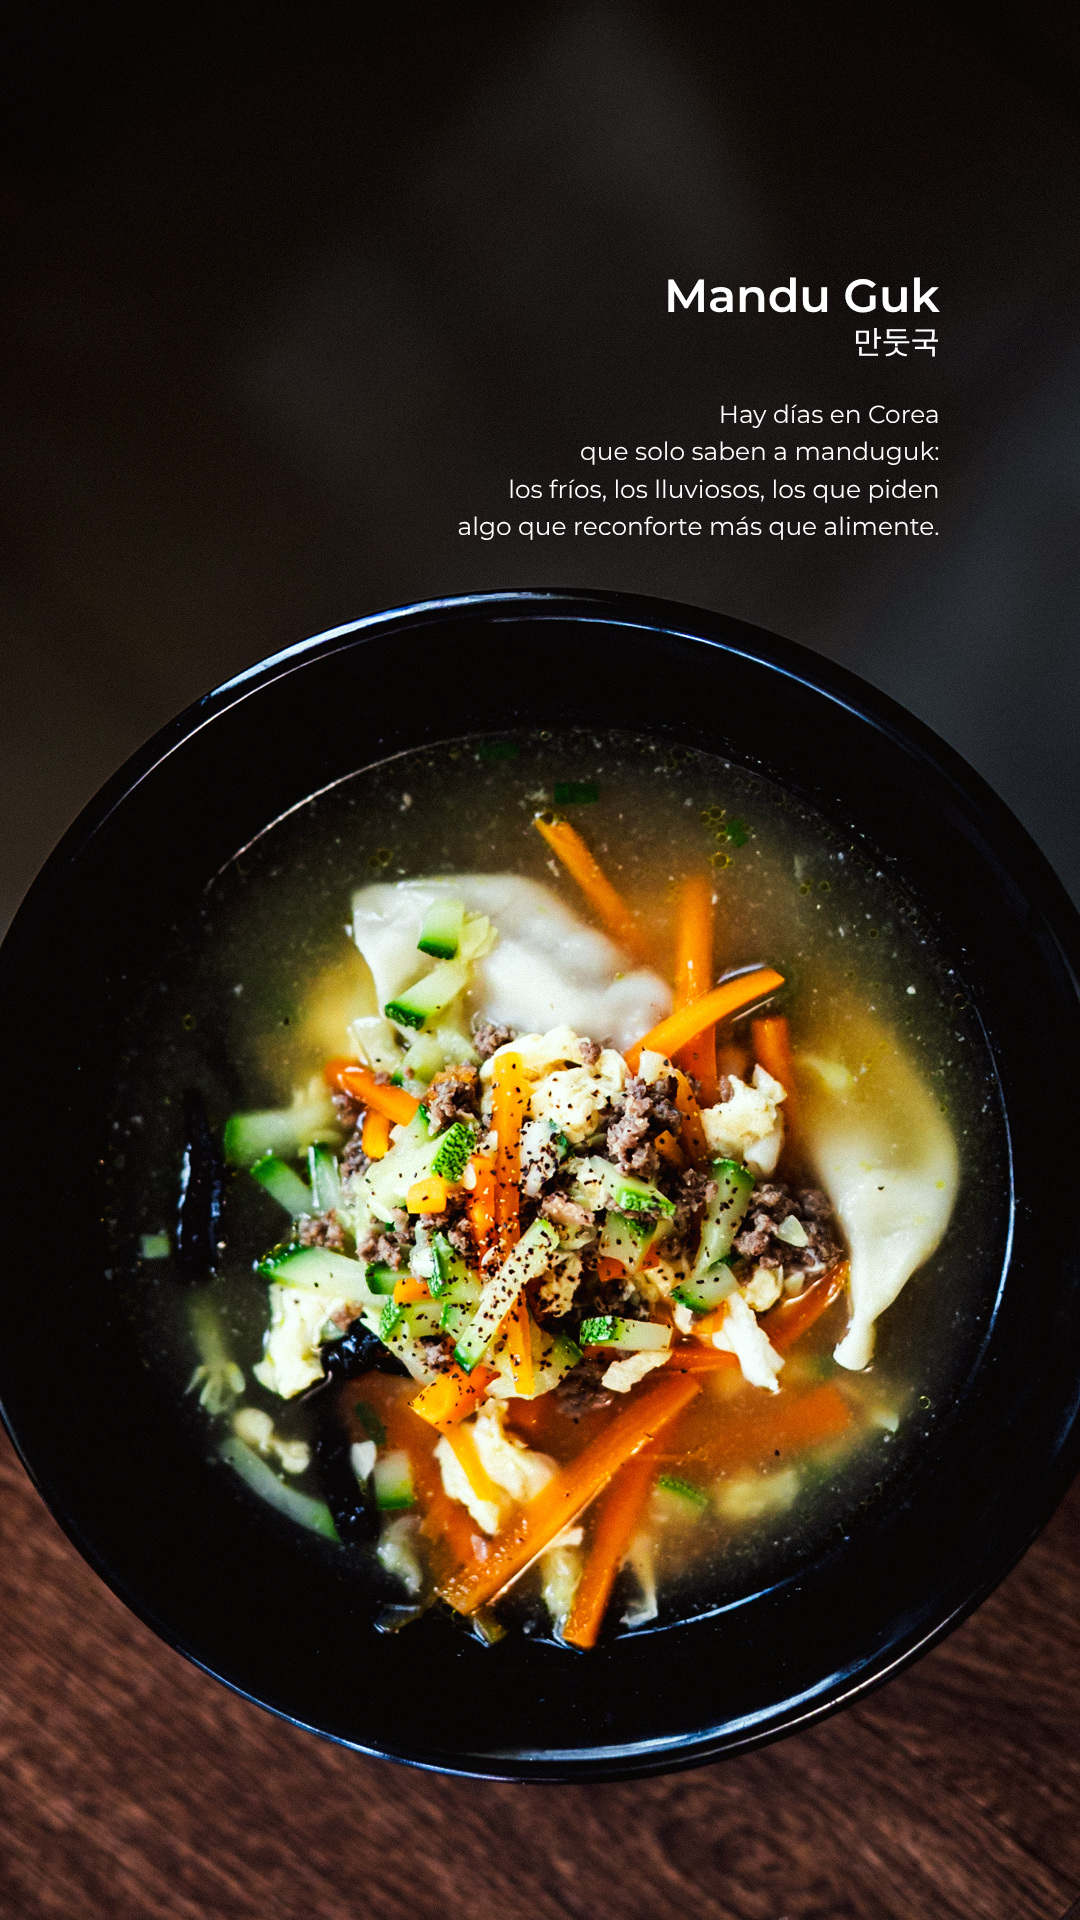
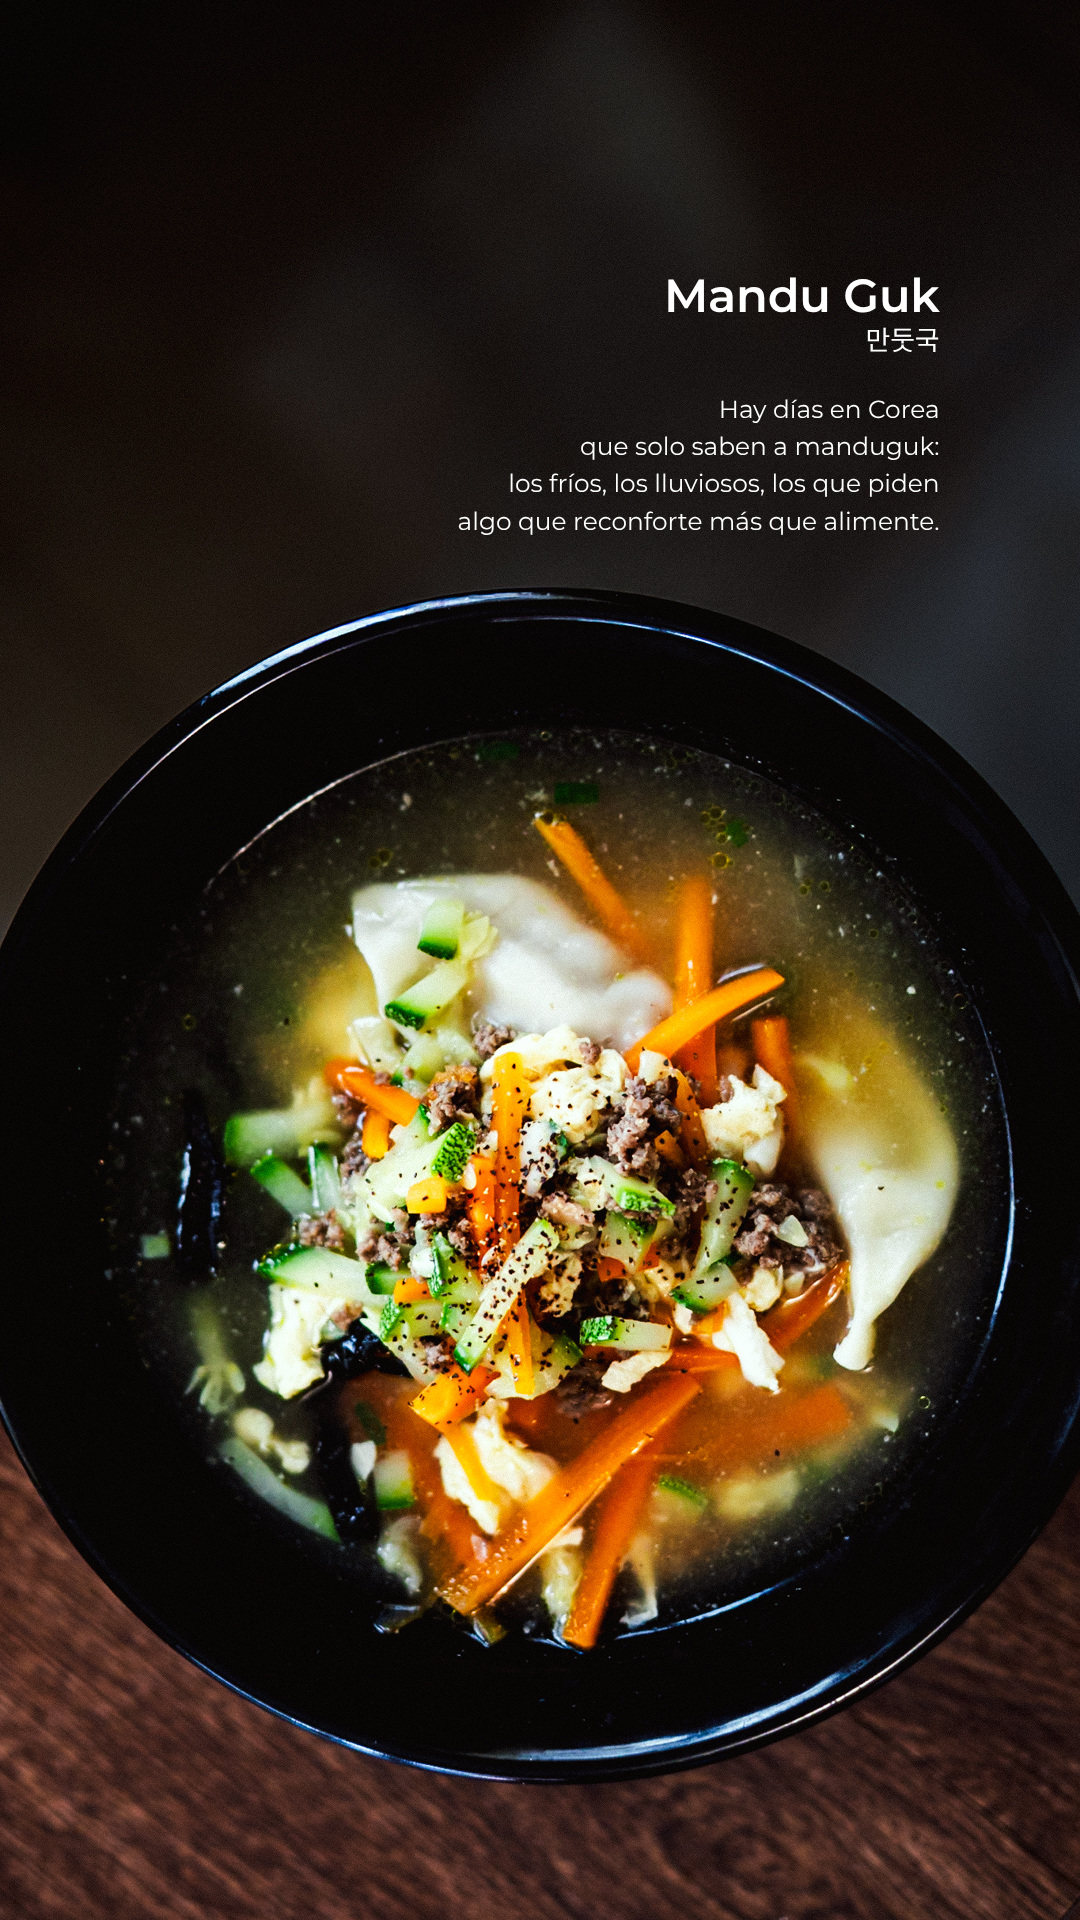
Define the story type scale by ink height, not font-size
The three levels were set as font-size percentages picked by eye, which
is not a scale and, across two writing systems, is not even comparable.
A Montserrat cap is exactly 0.700em; a Noto Sans KR hangul glyph is
0.885em, so at equal font-size the hangul renders 1.26x taller. The
name/hangul/body steps came out at 1.17 and 1.59 — level 2 glued to
level 1 and adrift from level 3, which is what showed on screen.

The scale is now geometric on rendered ink height, ratio 1.367, and each
font-size is derived by dividing the target ink height by that font's own
share of the em. Only the hangul moves: 2.90cqmin to 2.49cqmin. Measured
steps land at 1.366 and 1.369 in vector terms (33/25/18px once rounded to
pixels). Clearance to the bowl rim improves to 56px.

The anchors themselves — 32.5px for the name, 17.4px for the body — are
still read off the reference by eye and want confirming against the
source file.

Claude-Session: https://claude.ai/code/session_011iaDdt1HQDovK9xULG7pTy

Changed region(s): [[0.4278, 0.1562, 0.8861, 0.2812]]

diff --git a/historias/assets/pieza.css b/historias/assets/pieza.css
@@ -74,19 +74,37 @@ html, body { width: 1080px; height: 1920px; overflow: hidden; background: #000; 
 .bloque[data-ancla="right"] { right: var(--margen); text-align: right; }
 .bloque[data-ancla="left"]  { left:  var(--margen); text-align: left;  }
 
+/* ---------- LA ESCALA ----------
+   Se define por ALTURA DE TINTA, no por font-size, porque la tinta es lo
+   que el ojo compara. Razón geométrica 1.367 entre niveles.
+
+   Y entre alfabetos hay que corregir ópticamente: al mismo font-size una
+   mayúscula de Montserrat mide 0.700em y un glifo hangul de Noto Sans KR
+   mide 0.885em, así que el hangul se ve 1.26x más alto. Sin corregirlo el
+   만둣국 sale casi tan grande como el nombre y los niveles 1 y 2 se pisan.
+
+     nivel     tinta      font-size     de dónde sale
+     nombre    32.5 px    4.30cqmin     32.5 / 0.700
+     hangul    23.8 px    2.49cqmin     23.8 / 0.885   <- NO es 2.30 + algo
+     bajada    17.4 px    2.30cqmin     17.4 / 0.700
+
+   Si se cambia la fuente coreana hay que recalcular 2.49: ese número
+   depende de cuánto del cuadratín ocupa el glifo, no del diseño.        */
+
 /* Nivel 1 — nombre latino */
 .nombre {
-  font-size: 4.3cqmin;
+  font-size: 4.30cqmin;
   font-weight: var(--peso-nombre, 600);
   line-height: 1.12;
   letter-spacing: -0.005em;
 }
 
 /* Nivel 2 — hangul. Cuelga del latino con interlineado cerrado:
-   los dos leen como UNA unidad, no como dos líneas sueltas. */
+   los dos leen como UNA unidad, no como dos líneas sueltas.
+   El font-size sale de la tabla de arriba, ya corregido ópticamente. */
 .hangul {
   font-family: "Noto Sans KR", "Montserrat", sans-serif;
-  font-size: 2.9cqmin;
+  font-size: 2.49cqmin;
   font-weight: 400;
   line-height: 1.15;
   margin-top: 0.06em;
